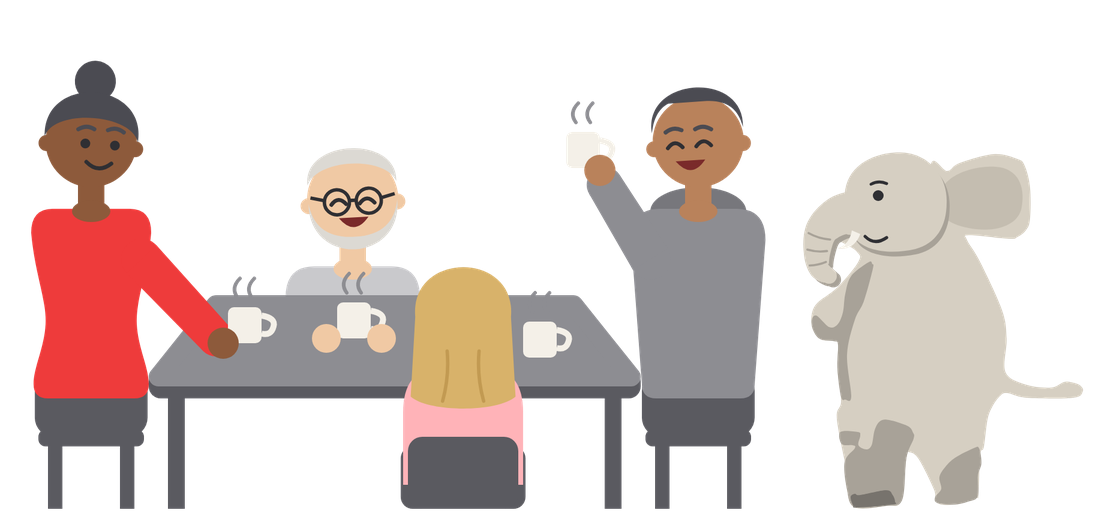
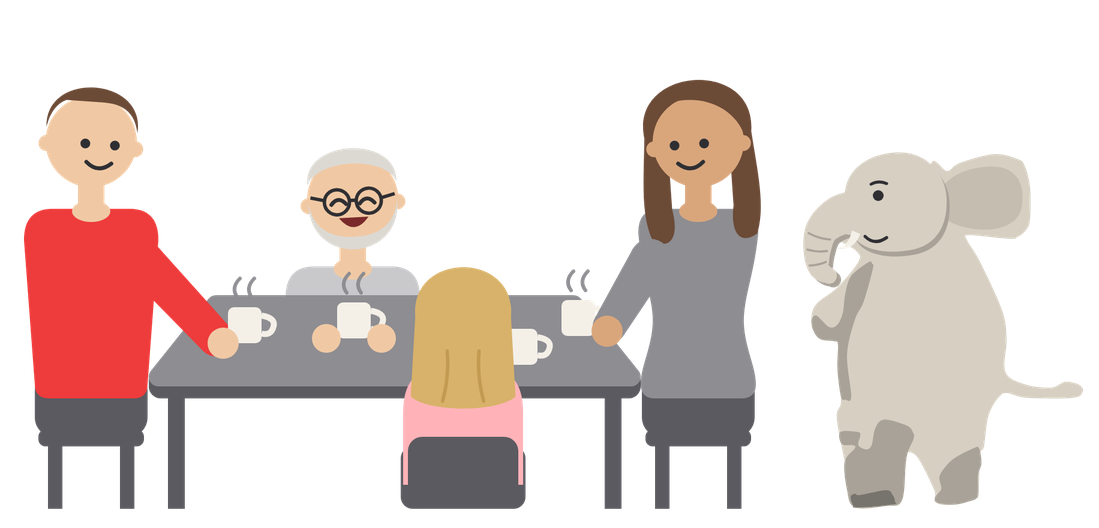
Redraw two of the friends at the table
The friend at the left end is now a plainly drawn man, and the friend at
the right end is a woman with long hair whose mug rests on the table.

Claude-Session: https://claude.ai/code/session_011hpFjLLA5wvsKL27P1HGAP

diff --git a/index.html b/index.html
@@ -175,7 +175,7 @@ button:focus-visible,a:focus-visible{outline:3px solid #ffb3b8;outline-offset:4p
 
 </div>
 <div style="flex: 1 1 280px; min-width: 0; background: #111113; border: 1px solid #2b2b30; border-radius: 28px; padding: 26px 22px 24px; display: flex; flex-direction: column; gap: 16px">
-<img src="assets/life-table.webp" alt="Two women and two men round a table with mugs of coffee: one at each end and two across from each other, one man raising his mug, while the elephant stands a little way off, smiling" style="display: block; width: 100%; height: auto">
+<img src="assets/life-table.webp" alt="Two men and two women round a table with mugs of coffee: a man at one end, a woman with long hair at the other, and two more across from each other, while the elephant stands a little way off, smiling" style="display: block; width: 100%; height: auto">
 
 </div>
 </div>
